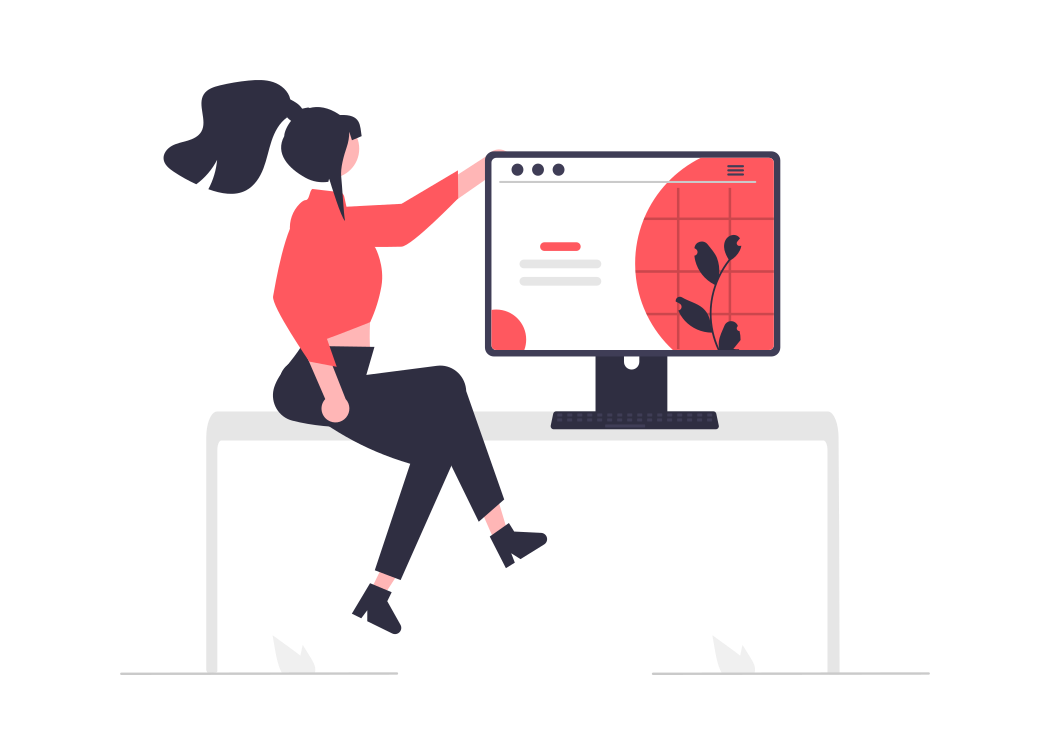
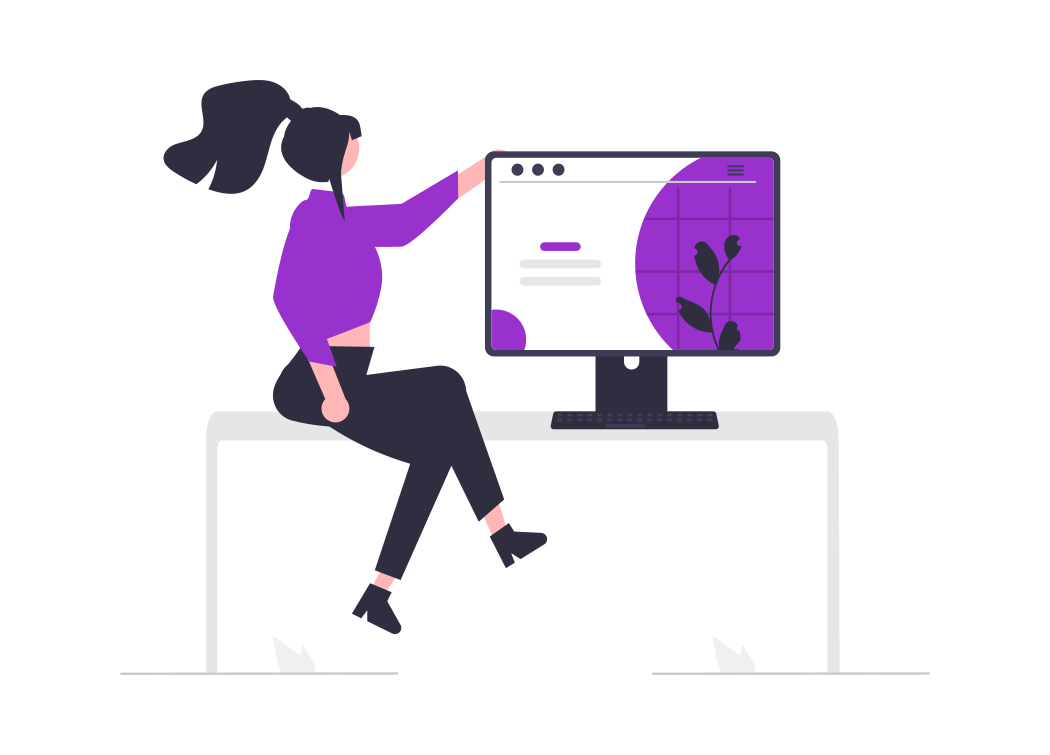
fully changed home page

diff --git a/src/pages/Home/header/header.jsx b/src/pages/Home/header/header.jsx
@@ -2,7 +2,33 @@ import { Link } from "react-router-dom";
 import { useEffect } from "react";
 import Aos from "aos";
 import "aos/dist/aos.css";
+import { useSelector } from "react-redux";
 function Header() {
+  let imgSrc;
+  let introClassName;
+  const theme = useSelector((state) => state.theme.theme);
+  switch (theme) {
+    case 1:
+      imgSrc = "./images/undraw_Blooming_re_2kc4.png";
+      introClassName = "initial-intro";
+      break;
+    case 2:
+      imgSrc = "./images/undraw_fall_thyk.png";
+      introClassName = "blue-intro";
+      break;
+    case 3:
+      imgSrc = "./images/undraw_learning_sketching_nd4f.png";
+      introClassName = "gold-intro";
+      break;
+    case 4:
+      imgSrc = "./images/undraw_Designer_life_re_6ywf.png";
+      introClassName = "pink-intro";
+      break;
+    default:
+      imgSrc = "";
+
+      break;
+  }
   useEffect(() => {
     Aos.init();
   }, []);
@@ -12,7 +38,7 @@ function Header() {
         data-aos="fade-right"
         data-aos-easing="ease-in-sine"
         data-aos-duration="2000"
-        className="greeting"
+        className={`greeting ${introClassName}`}
       >
         Hello, I'm Anna,<br></br> I'm a Junior front-end developer. <br></br>
         Nice to meet you.
@@ -23,13 +49,13 @@ function Header() {
         data-aos-easing="ease-in-sine"
         className="header-photo"
         alt="photo illustration"
-        src="/images/undraw_Blooming_re_2kc4.png"
+        src={imgSrc}
       />
       <div
         data-aos="fade-right"
         data-aos-easing="ease-in-sine"
         data-aos-duration="2000"
-        className="introduction"
+        className={`introduction ${introClassName}`}
       >
         Since the beginning of my journey as front-end developer I endeavor to
         learn everything I can get my hands on and become proficient in the

diff --git a/src/pages/Home/header/header.scss b/src/pages/Home/header/header.scss
@@ -25,7 +25,7 @@
 .greeting {
   text-align: center;
   margin: 100px 0;
-  color: var(--color-tertiary);
+
   font-size: 85px;
   font-weight: 100;
   max-width: 60%;
@@ -33,7 +33,6 @@
 .introduction {
   text-align: center;
   margin: 10px;
-  color: var(--color-tertiary-darker);
   font-size: larger;
   font-size: 30px;
 }
@@ -48,8 +47,7 @@
 }
 .--next-button {
   cursor: pointer;
-  color: var(--white-content);
-  background: var(--color-tertiary);
+  background: white;
   border: var(--white-content);
   font-weight: 600;
   font-size: 20px;
@@ -65,12 +63,26 @@
     background: var(--icons-grey);
     box-shadow: 0 4px 4px rgba(0, 0, 0, 0.342);
     .--next-button-link {
-      color: var(--color-tertiary);
+      color: white;
     }
   }
   .--next-button-link {
     text-decoration: none;
-    color: var(--white-content);
+    color: var(--icons-grey);
     padding: 20px 10px;
   }
+}
+
+.initial-intro {
+  color: var(--color-tertiary-darker);
+}
+
+.blue-intro {
+  color: var(--color-primary-darker);
+}
+.gold-intro {
+  color: var(--color-secondary-darker);
+}
+.pink-intro {
+  color: darkorchid;
 }

diff --git a/src/pages/Layouts/layouts.scss b/src/pages/Layouts/layouts.scss
@@ -76,7 +76,7 @@
   background-color: var(--white-content);
 
   &:hover {
-    background-color: palevioletred;
+    background-color: darkorchid;
     .indHover {
       color: var(--border-color);
     }
@@ -129,7 +129,7 @@
   padding: 25px;
 }
 .layout-link-pinkTheme {
-  color: rebeccapurple;
+  color: darkorchid;
   text-decoration: none;
   font-weight: 500;
   display: inline-block;
@@ -284,7 +284,7 @@
     var(--nav-background) 0px 0px 0px 1px;
 
   &:hover {
-    background-color: darkmagenta;
+    background-color: darkorchid;
   }
 }
 .initial-btn {
@@ -308,7 +308,7 @@
 .pink {
   background-color: darkorchid;
   &:hover {
-    background-color: darkmagenta;
+    background-color: darkorchid;
   }
 }
 
